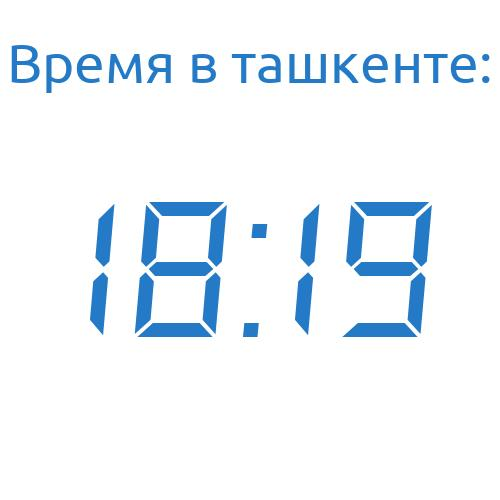
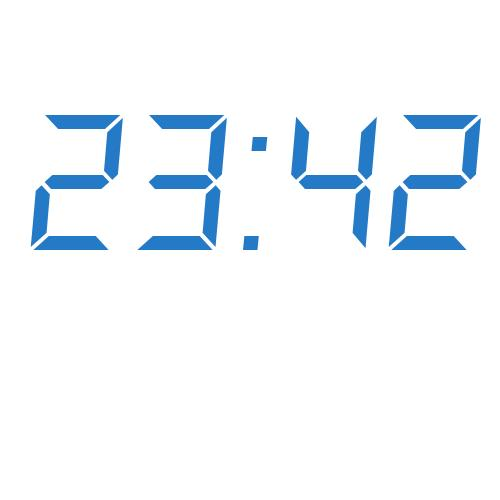
added menu Add Meal

diff --git a/modifiedclasses/mainwindow.py b/modifiedclasses/mainwindow.py
@@ -14,6 +14,7 @@ from PyQt5.QtWidgets import (
 from dbworker import DBWorker
 from dialogs.ask_cc_dialog import ChildCountUi
 from dialogs.ask_new_product_info import UiProductInfo
+from dialogs.addingmeal import MealInfoUI
 from extrautils import *
 from modifiedclasses.changingwidgets import AddDecrementWidget, AddIncrementWidget
 from modifiedclasses.mysqlrelatioanltablemodel import SRTM
@@ -32,11 +33,13 @@ def generate_image(text):
 
     font = ImageFont.truetype("resources/ds-digit.ttf", size=212)
     wt, ht = draw.textsize(text, font)
-    draw.text(((w - wt) / 2, (h - ht) / 2), text, font=font, fill='#247ac6')
+    draw.text(((w - wt) / 2, (h - ht - ht) / 2), text, font=font, fill='#247ac6')
+    """
     font = ImageFont.truetype("resources/ubuntu.ttf", size=55)
     text = "Время в ташкенте:"
     wt, ht = draw.textsize(text, font)
     draw.text(((w - wt) / 2, int(0.5 * ht)), text, font=font, fill="#247ac6")
+    """
 
     image.save(r'images/spimage.jpg')
 
@@ -50,7 +53,8 @@ class MainWindow(QMainWindow):
         self.setWindowTitle("Амбарная книга")
         self.splash_for_time = QSplashScreen(QtGui.QPixmap(r'images/spimage.jpg'))
         self.splash_for_time.showMessage(
-            "Сохраните своё время с нами!\n\nПодключение к базе данных...\n\r",
+            "Сохраните своё время с нами!\n\nПодключение к базе данных...\n\r"
+            "\n\r\n\r",
             QtCore.Qt.AlignCenter | QtCore.Qt.AlignBottom,
             QtCore.Qt.black
         )
@@ -65,7 +69,8 @@ class MainWindow(QMainWindow):
         generate_image(get_now())
         self.splash_for_time.setPixmap(QtGui.QPixmap(r'images/spimage.jpg'))
         self.splash_for_time.showMessage(
-            "Сохраните своё время с нами!\n\nЗагрузка элементов экрана...\n\r",
+            "Сохраните своё время с нами!\n\nЗагрузка элементов экрана...\n\r"
+            "\n\r\n\r",
             QtCore.Qt.AlignCenter | QtCore.Qt.AlignBottom,
             QtCore.Qt.black
         )
@@ -116,12 +121,26 @@ class MainWindow(QMainWindow):
         my_menu_add = menu_bar.addMenu("&Добавить")
         my_menu_add.addAction(
             "&Продукт", self.add_product,
-            QtCore.Qt.CTRL + QtCore.Qt.Key_N + QtCore.Qt.Key_P)
+            QtCore.Qt.CTRL + QtCore.Qt.Key_P
+        )
+        my_menu_add.addAction(
+            "&Блюдо", self.add_meal,
+            QtCore.Qt.CTRL + QtCore.Qt.Key_M
+        )
         menu_remainders = menu_bar.addMenu("&Остатки")
-        menu_remainders.addAction("&Редактировать", self.edit_remainders,
-                                  QtCore.Qt.CTRL + QtCore.Qt.Key_O + QtCore.Qt.Key_R)
-        menu_remainders.addAction("&Посмотреть", self.show_remainders,
-                                  QtCore.Qt.CTRL + QtCore.Qt.Key_S + QtCore.Qt.Key_O)
+        menu_remainders.addAction(
+            "&Редактировать", self.edit_remainders,
+            QtCore.Qt.CTRL + QtCore.Qt.Key_O + QtCore.Qt.Key_R
+        )
+        menu_remainders.addAction(
+            "&Посмотреть", self.show_remainders,
+            QtCore.Qt.CTRL + QtCore.Qt.Key_S + QtCore.Qt.Key_O
+        )
+
+    def add_meal(self):
+        dialog: QDialog = QDialog(self)
+        dialog.ui = MealInfoUI(dialog, self.db_worker)
+        dialog.show()
 
     def add_product(self):
         dialog: QDialog = QDialog(self)

diff --git a/dialogs/addingmeal.py b/dialogs/addingmeal.py
@@ -27,7 +27,7 @@ class MealInfoUI:
         QtCore.QMetaObject.connectSlotsByName(dialog)
         dialog.setWindowTitle("Добавление блюда")
         self.buttons_layout.addWidget(self.ok_button)
-        self.cancel_button.addWidget(self.cancel_button)
+        self.buttons_layout.addWidget(self.cancel_button)
         self.main_layout.addWidget(self.label)
         self.main_layout.addWidget(self.meal_name)
         self.main_layout.addLayout(self.buttons_layout)
